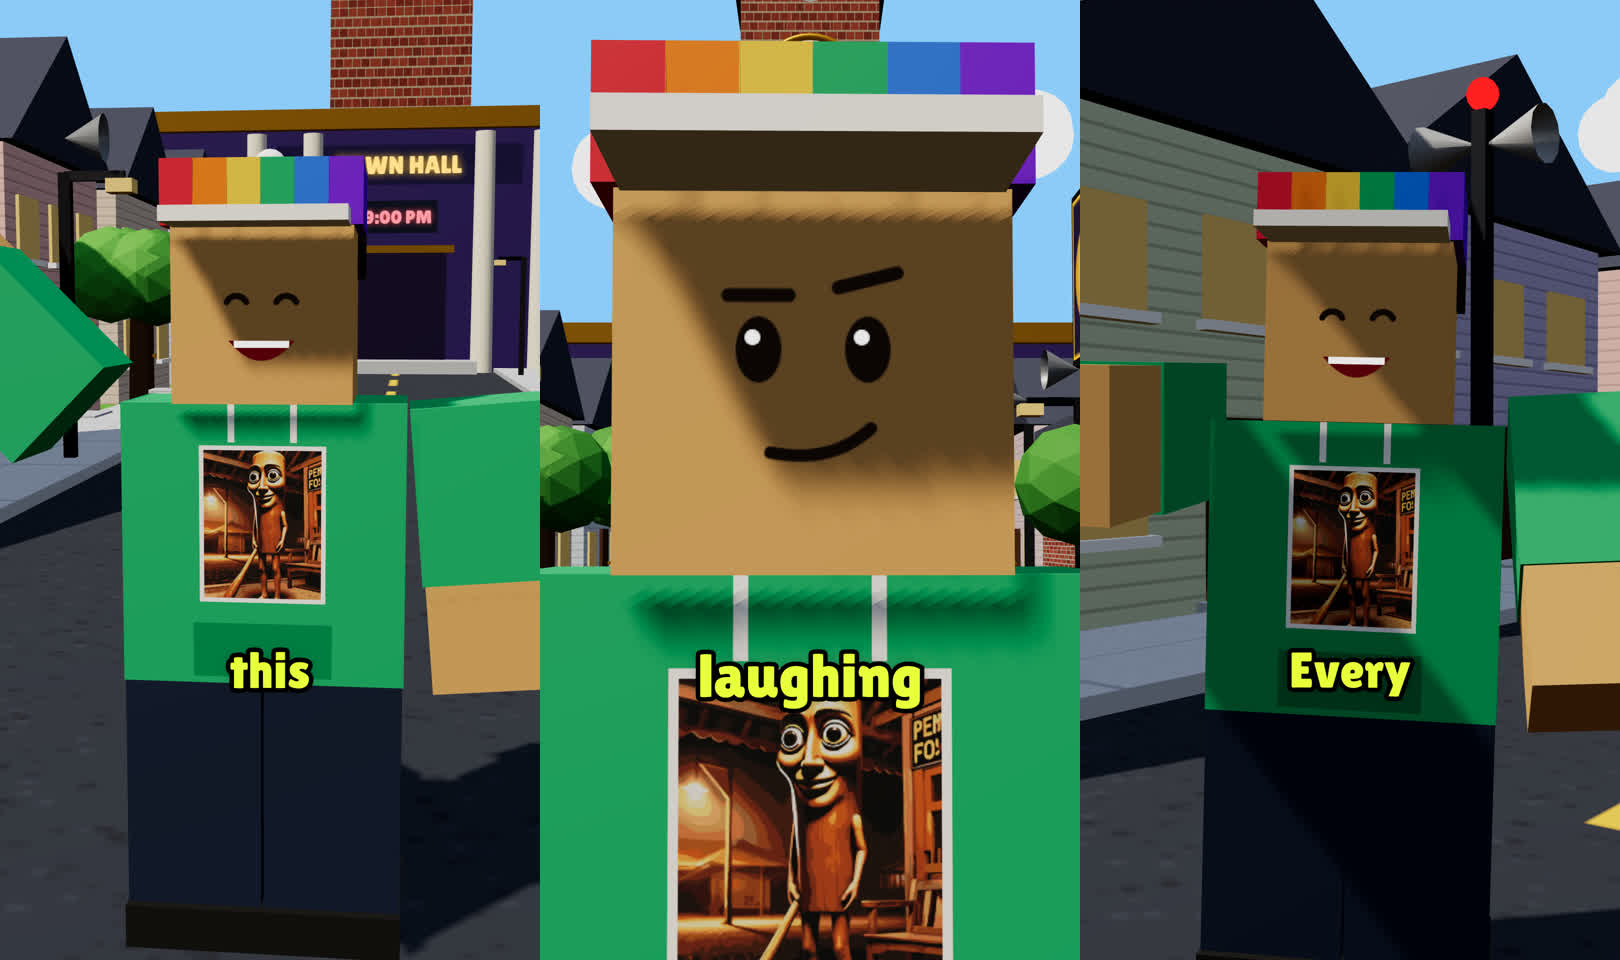
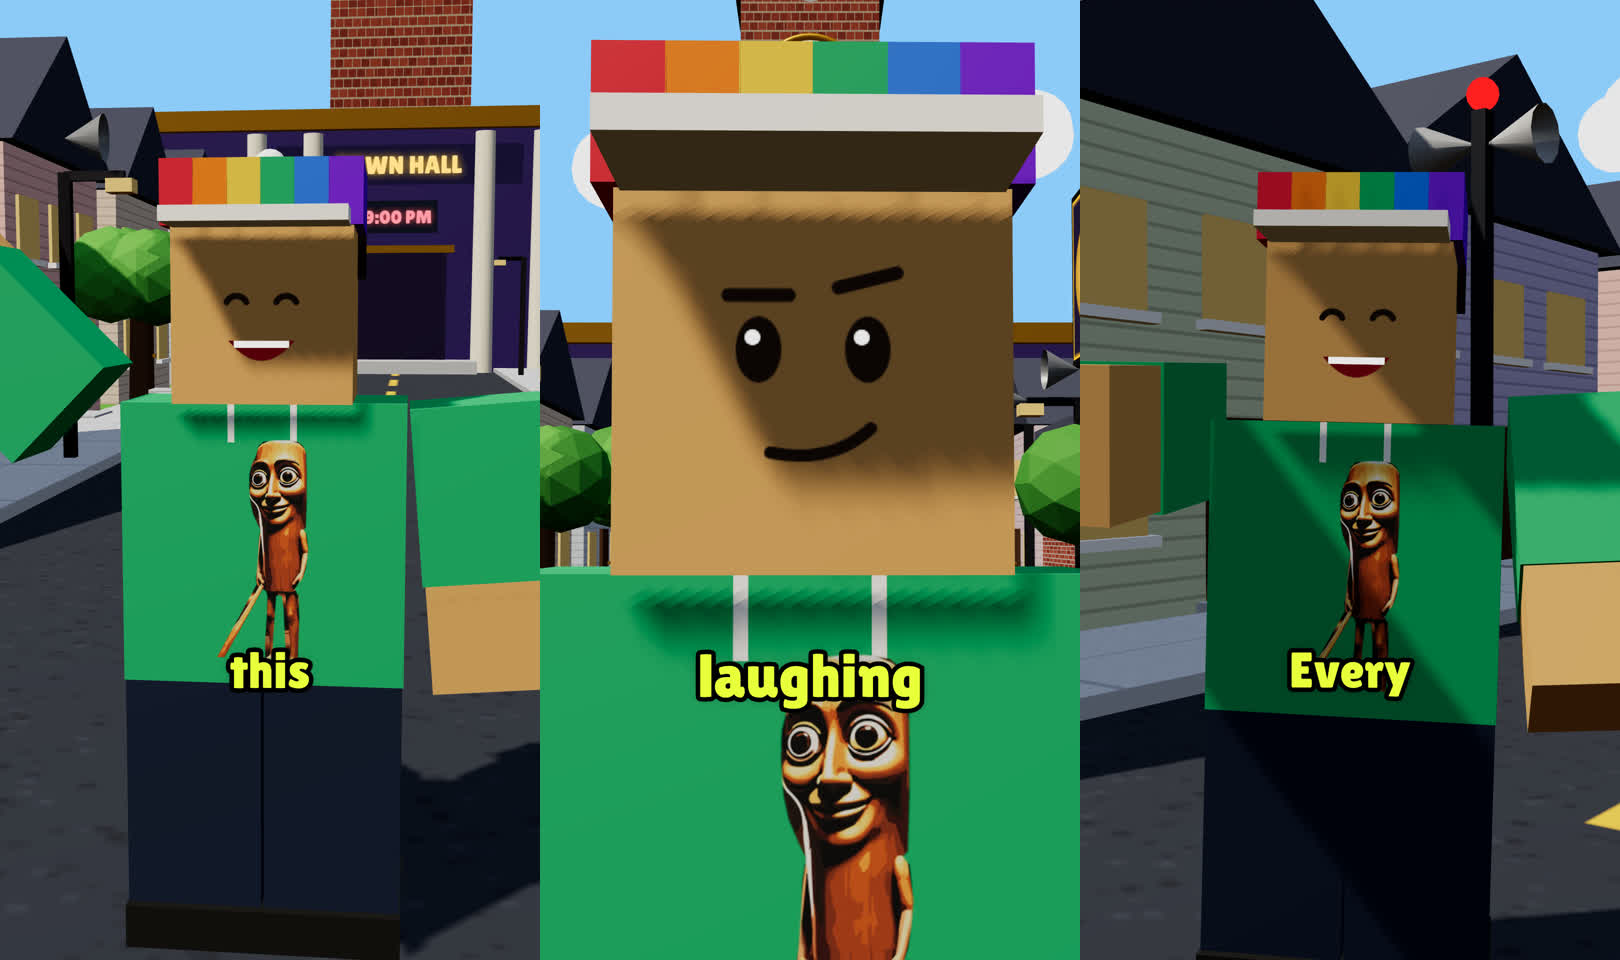
Townie: Tung-Tung-Sahur freigestellt auf dem Hoodie (ohne Hintergrund)
Claude-Session: https://claude.ai/code/session_01DP5BoGDyZSofFiT2D6XfnW

Changed region(s): [[0.4012, 0.6875, 0.5864, 1.0], [0.7716, 0.4688, 0.8951, 0.6875], [0.0926, 0.4375, 0.216, 0.7188]]

diff --git a/videos/28-laugh-tax/compositions/world.html b/videos/28-laugh-tax/compositions/world.html
@@ -262,7 +262,7 @@ window.__hf.buildReady.world = import("./assets/three.module.min.js").then((THRE
     gr.addColorStop(0, "rgba(255,255,255,1)"); gr.addColorStop(0.22, "rgba(140,230,255,0.9)"); gr.addColorStop(1, "rgba(0,120,255,0)"); g.fillStyle = gr; g.fillRect(0, 0, 128, 128); return new THREE.CanvasTexture(c); })();
   function lampSet(ch, on, at, u) { ch.lamp.visible = on && (at === undefined || u >= at); if (ch.lamp.visible) { const q = at === undefined ? 1 : outBack((u - at) / 0.25);
       ch.lamp.scale.setScalar(Math.max(0.01, q) * (1 + 0.06 * Math.sin(u * 8))); } }
-  const SHIRT_IMG = new Image(); const shirtImgReady = new Promise((res) => { SHIRT_IMG.onload = res; SHIRT_IMG.onerror = res; }); SHIRT_IMG.src = "assets/brand/townie-shirt.jpg";
+  const SHIRT_IMG = new Image(); const shirtImgReady = new Promise((res) => { SHIRT_IMG.onload = res; SHIRT_IMG.onerror = res; }); SHIRT_IMG.src = "assets/brand/townie-shirt.png";
   function makeChar(o) {
     const root = new THREE.Group(); scene.add(root);
     const sk = std({ color: o.skin || 0xF1C27D }), sh = std({ color: o.shirt }), pa = std({ color: o.pants || 0x2E3A59 }), shoe = std({ color: o.shoe || 0x222222 });
@@ -286,7 +286,7 @@ window.__hf.buildReady.world = import("./assets/three.module.min.js").then((THRE
     let ct = new THREE.CanvasTexture(c);
     if (o.design === "tungimg") { const c2 = cv(512, 512), g2 = c2.getContext("2d"); ct = new THREE.CanvasTexture(c2);
       const paint = () => { g2.fillStyle = "#" + new THREE.Color(o.shirt).getHexString(); g2.fillRect(0, 0, 512, 512); g2.strokeStyle = "#FFF"; g2.lineWidth = 12; g2.beginPath(); g2.moveTo(200, 0); g2.lineTo(200, 70); g2.moveTo(312, 0); g2.lineTo(312, 70); g2.stroke();
-        g2.fillStyle = "rgba(0,0,0,0.18)"; g2.fillRect(130, 400, 252, 100); if (SHIRT_IMG.naturalWidth) { g2.fillStyle = "#FFFFFF"; g2.fillRect(142, 76, 228, 285); g2.drawImage(SHIRT_IMG, 150, 84, 212, 269); } ct.needsUpdate = true; };
+        if (SHIRT_IMG.naturalWidth) { const hh = 400, ww = hh * SHIRT_IMG.naturalWidth / SHIRT_IMG.naturalHeight; g2.drawImage(SHIRT_IMG, 256 - ww / 2, 64, ww, hh); } ct.needsUpdate = true; };
       paint(); shirtImgReady.then(paint); }
     ct.colorSpace = THREE.SRGBColorSpace; const front = std({ map: ct });
     const torso = add(new THREE.Mesh(new THREE.BoxGeometry(1, 1, 0.5), [sh, sh, sh, sh, front, sh]), root); torso.position.y = 1.5;

diff --git a/videos/28-laugh-tax/build.py b/videos/28-laugh-tax/build.py
@@ -288,7 +288,7 @@ window.__hf.buildReady.world = import("./assets/three.module.min.js").then((THRE
     gr.addColorStop(0, "rgba(255,255,255,1)"); gr.addColorStop(0.22, "rgba(140,230,255,0.9)"); gr.addColorStop(1, "rgba(0,120,255,0)"); g.fillStyle = gr; g.fillRect(0, 0, 128, 128); return new THREE.CanvasTexture(c); })();
   function lampSet(ch, on, at, u) { ch.lamp.visible = on && (at === undefined || u >= at); if (ch.lamp.visible) { const q = at === undefined ? 1 : outBack((u - at) / 0.25);
       ch.lamp.scale.setScalar(Math.max(0.01, q) * (1 + 0.06 * Math.sin(u * 8))); } }
-  const SHIRT_IMG = new Image(); const shirtImgReady = new Promise((res) => { SHIRT_IMG.onload = res; SHIRT_IMG.onerror = res; }); SHIRT_IMG.src = "assets/brand/townie-shirt.jpg";
+  const SHIRT_IMG = new Image(); const shirtImgReady = new Promise((res) => { SHIRT_IMG.onload = res; SHIRT_IMG.onerror = res; }); SHIRT_IMG.src = "assets/brand/townie-shirt.png";
   function makeChar(o) {
     const root = new THREE.Group(); scene.add(root);
     const sk = std({ color: o.skin || 0xF1C27D }), sh = std({ color: o.shirt }), pa = std({ color: o.pants || 0x2E3A59 }), shoe = std({ color: o.shoe || 0x222222 });
@@ -312,7 +312,7 @@ window.__hf.buildReady.world = import("./assets/three.module.min.js").then((THRE
     let ct = new THREE.CanvasTexture(c);
     if (o.design === "tungimg") { const c2 = cv(512, 512), g2 = c2.getContext("2d"); ct = new THREE.CanvasTexture(c2);
       const paint = () => { g2.fillStyle = "#" + new THREE.Color(o.shirt).getHexString(); g2.fillRect(0, 0, 512, 512); g2.strokeStyle = "#FFF"; g2.lineWidth = 12; g2.beginPath(); g2.moveTo(200, 0); g2.lineTo(200, 70); g2.moveTo(312, 0); g2.lineTo(312, 70); g2.stroke();
-        g2.fillStyle = "rgba(0,0,0,0.18)"; g2.fillRect(130, 400, 252, 100); if (SHIRT_IMG.naturalWidth) { g2.fillStyle = "#FFFFFF"; g2.fillRect(142, 76, 228, 285); g2.drawImage(SHIRT_IMG, 150, 84, 212, 269); } ct.needsUpdate = true; };
+        if (SHIRT_IMG.naturalWidth) { const hh = 400, ww = hh * SHIRT_IMG.naturalWidth / SHIRT_IMG.naturalHeight; g2.drawImage(SHIRT_IMG, 256 - ww / 2, 64, ww, hh); } ct.needsUpdate = true; };
       paint(); shirtImgReady.then(paint); }
     ct.colorSpace = THREE.SRGBColorSpace; const front = std({ map: ct });
     const torso = add(new THREE.Mesh(new THREE.BoxGeometry(1, 1, 0.5), [sh, sh, sh, sh, front, sh]), root); torso.position.y = 1.5;

diff --git a/.claude/skills/tiktok-sim-video/references/storytime.md b/.claude/skills/tiktok-sim-video/references/storytime.md
@@ -157,7 +157,7 @@ Länge nur **75–110 s** (kürzer als unsere 2:00+). Schnitt alle ~2–3 s (gem
 ## Kanal-Markenzeichen (ab Video 29, Wunsch des Creators)
 - **Erzähler „Townie“** – in jedem Video der Ich-Erzähler, spricht oft direkt in die Kamera (wie der Maskottchen-Erzähler bei larpiverse, aber eigener Look).
   - Look: **Regenbogen-Cap** (`hair: "rainbowcap"`) + **grüner Hoodie mit dem Tung-Tung-Sahur-Bild des Creators als Aufdruck** (`design: "tungimg"`), Hautton 0xE0AC69.
-  - Code: `const NARR = { shirt: 0x2BB673, pants: 0x22304A, design: "tungimg", hair: "rainbowcap", hairCol: 0x3A2214, skin: 0xE0AC69 }` – Shirt-Bild `assets/brand/townie-shirt.jpg` (Kopie in `brand/`) in jedes neue Projekt kopieren (Vorlage: `videos/28-laugh-tax/build.py`).
+  - Code: `const NARR = { shirt: 0x2BB673, pants: 0x22304A, design: "tungimg", hair: "rainbowcap", hairCol: 0x3A2214, skin: 0xE0AC69 }` – Shirt-Bild `assets/brand/townie-shirt.png` (freigestellt, ohne Hintergrund) (Kopie in `brand/`) in jedes neue Projekt kopieren (Vorlage: `videos/28-laugh-tax/build.py`).
 - Feste Nebenfiguren: Kevin (bester Freund, rotes Stern-Shirt, blond), Linda (Nachbarin), Oma (lila, Brille, Dutt), Bürgermeister (Zylinder, Schnurrbart).
 - **Neongelbe Untertitel bleiben** (unser Erkennungszeichen, nicht weiß wie bei larpiverse).
 - Stil sonst wie die vierte Referenz-Runde: helle Tagstadt, Comic-Mimik, Text-Popups („HA!“, „-$5“), Callback-Ende.
